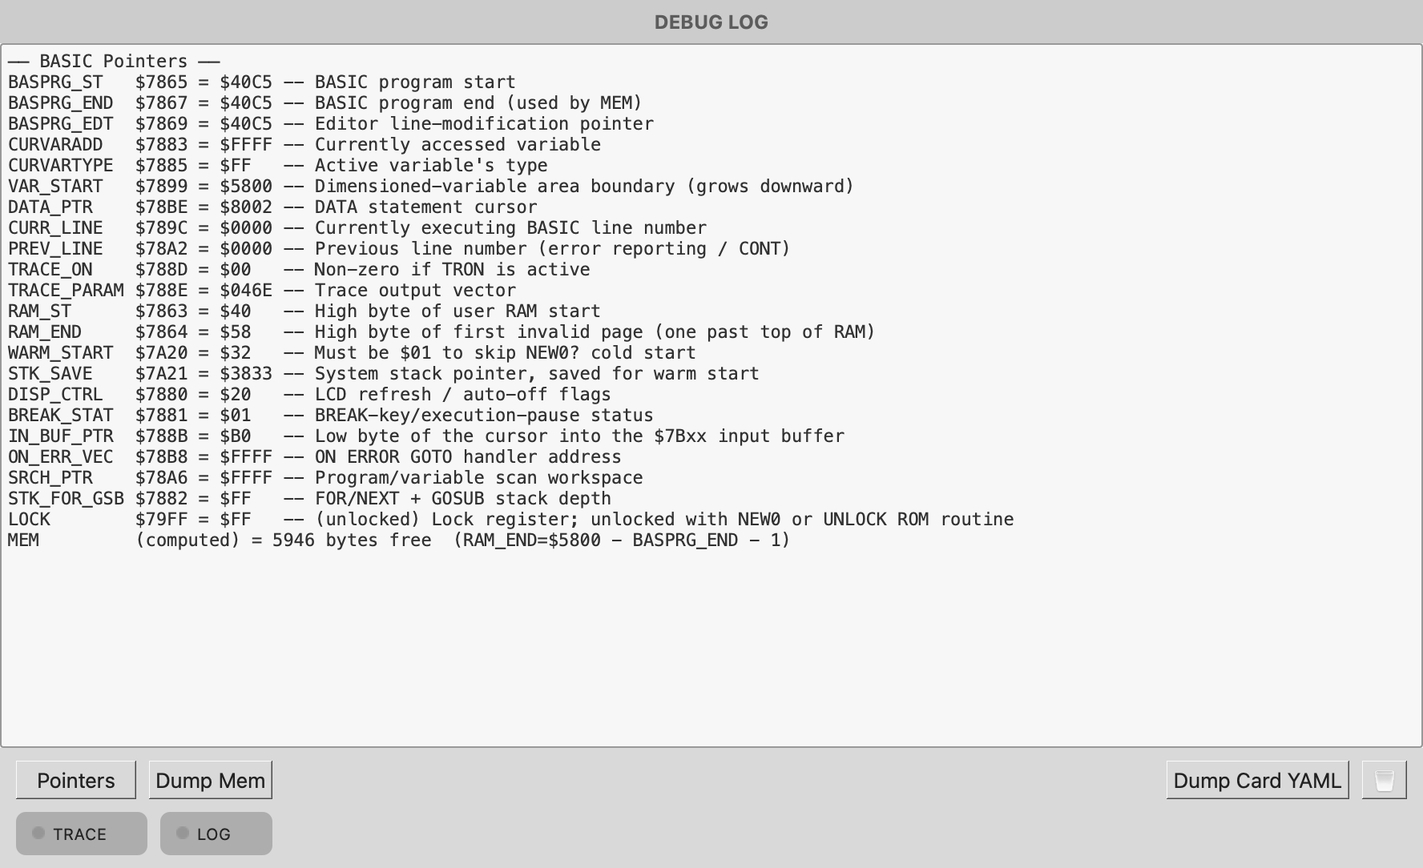
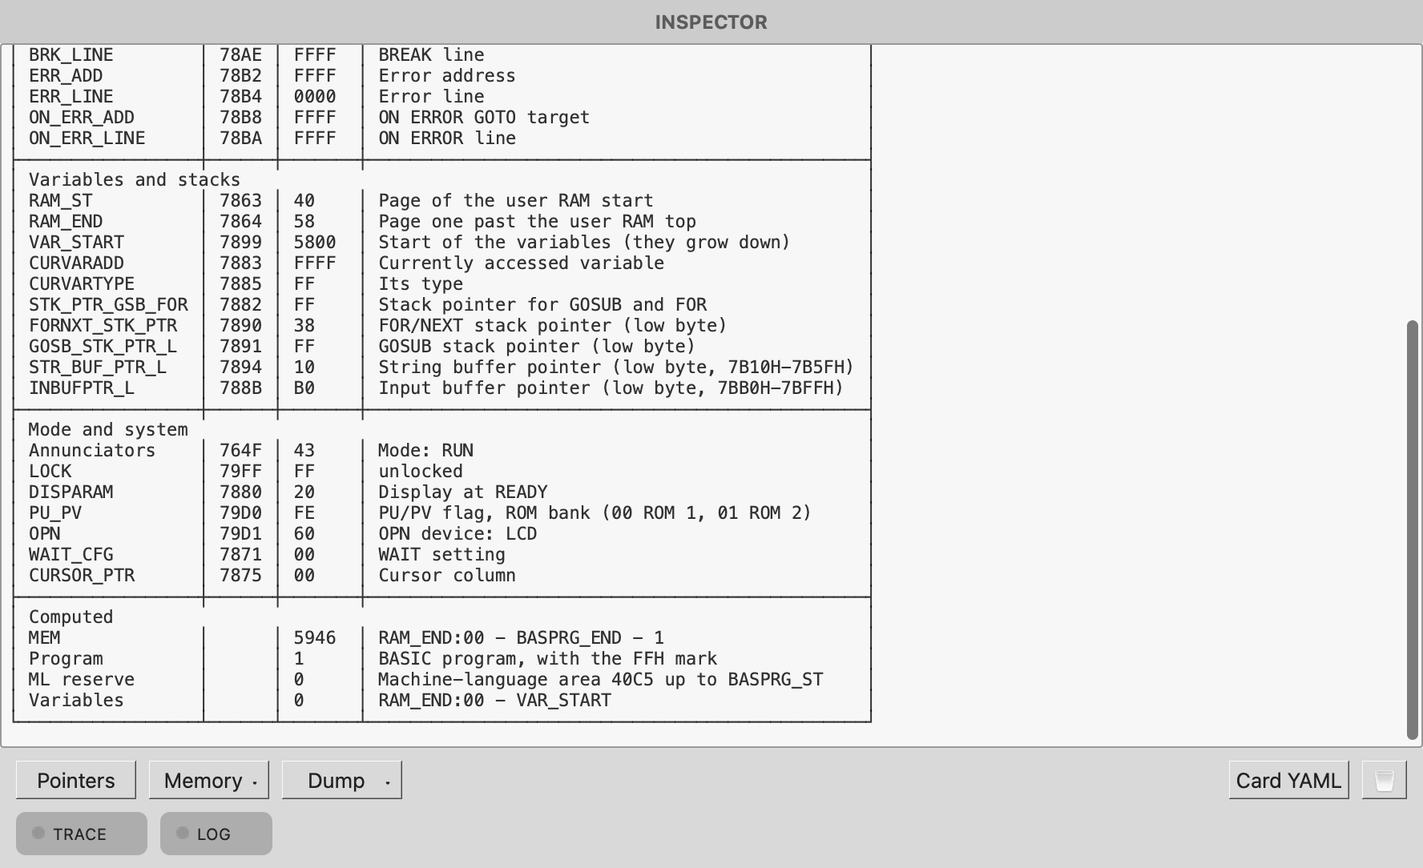
Docs: INSPECTOR in the User Guide, plan, decisions, changelog
User Guide 9.2 rewritten for the INSPECTOR and its menus; the plan as
docs/background/plans/Inspector-Panel-Plan.md; Decisions.md: views in
Core, F055H/F05BH semantics, empty slot = open bus, the F000 block's
current wording; TODO's pointer review done; screenshot refreshed.

diff --git a/docs/background/plans/Inspector-Panel-Plan.md b/docs/background/plans/Inspector-Panel-Plan.md
@@ -1,0 +1,166 @@
+# Debug panel → INSPECTOR: pointers, memory views, dumps
+
+> **Status (2026-10-10): implemented.** Differences from the plan below:
+> - The Core module is `Core/Debug/Inspect/` (`Inspector`, `TextTable`,
+>   `HexDump`, `PC1500Inspector`, `PC1600Inspector`) instead of
+>   `MemoryViews`. The pointer tables moved there; `BasicPointerTable` keeps
+>   only `readPC1600ProgramAreas()`.
+> - No list of ROM images: the inventory names the built-in ROMs itself and
+>   asks the cards (`CardBase::debugMemories()`, `moduleName()`) and the bus
+>   (by offering cycles) for the rest. Bus ROMs are named after their file.
+> - F055H/F05BH turned out to be the module's non-disk RAM, not the disk
+>   size (ROM P1-B3 4B9A–4BBC); a RAM disk is the rest of the module and
+>   counts only with its boot sector (docs/background/Decisions.md, GUI).
+> - The CLIs got `--inspect <view>`, which the plan only had as a
+>   possibility. The screenshot scenarios can open the menus (`open:`), not
+>   pick an entry.
+> - Not done: RDSKS1/RDSKS2 fields (the layout isn't settled), the
+>   RAM-disk directory listing (TODO.md).
+
+## Context
+The "DEBUG LOG" panel (`Qt6/app/DebugPanel.*`) was meant to grow into a debugger. That
+job now belongs to the DAP debug interface, so the panel becomes a read-only
+**machine inspector**. Three things change:
+- **Pointers**: the current lists are short, and the PC-1500 list has errors. The research corpus has many more.
+- **Dump Mem**: today one long PC-1600 printout mixes the bank map, a resource grid and an internal-RAM hex dump. It is replaced by separate table views and dumps that each answer one question.
+- **Naming**: the header and the buttons get new names (decided: INSPECTOR).
+
+Decisions made with the user:
+- Header "INSPECTOR".
+- Button bar: two drop-down buttons, `Memory ▾` and `Dump ▾`.
+- The PC-1500/1500A gets a matching subset of the views.
+- Disk areas: geometry, boot-sector header and raw dump, but no file listing.
+
+## Architecture
+The view logic moves into Core so it is unit-testable (there are no Qt tests) and can
+later be reused by the CLI and DAP.
+- **New `Core/Debug/MemoryViews.{hpp,cpp}`** builds structured models: `InventoryRow`, `CpuViewRow`, `AreaSegment`, …
+- **New `Core/Debug/TextTable.{hpp,cpp}`** is a small box-drawing table renderer (`┌─┬─┐ │ ├─┼─┤ └─┴─┘`, column widths from the content). The views render through it.
+- **`DebugPanel`** keeps only the UI: menus, the ring buffer, and `ringWriteAll(render(...))`. The old `resourceCell`, `targetName`, `debugDumpMemRegion` and `hexRowsFrom` code moves into Core or is removed. One shared hex dumper in Core keeps today's skip-00/FF-run behaviour and takes a base address and a label.
+- **Data access** goes through new locked `PC1600Machine` / `PC1500Machine` debug accessors, passed through `MachineController`, following the existing `debugBankState` / `debugSlotImage` pattern. Every read is side-effect free.
+
+## Phase 1 — Rename + button bar
+- Header `DEBUG LOG` → `INSPECTOR`. Update the class comment and `docs/User-Guide.md` §9.2.
+- Row 1: `Pointers`, `Memory ▾` (QToolButton + QMenu, InstantPopup), `Dump ▾`, stretch, `Card YAML` (renamed from "Dump Card YAML"), Clear.
+- Menu entries are rebuilt on `aboutToShow`, so they depend on the model and on what is attached (PC-1500 entries are hidden; S1/S2 entries are greyed out when the slot is empty).
+- Object names `debugpanel.memory` and `debugpanel.dump`. Update `docs/developer/screenshots/README.md` and the scenarios that click `debugpanel.dumpmem`.
+- LOG pill: leave it as is (out of scope).
+
+## Phase 2 — Pointers (`Core/Debug/BasicPointerTable.cpp`)
+Output is grouped, one heading per group, with decoded flags where it helps.
+
+**PC-1600**, adding to the existing entries (addresses from the research corpus; check
+each one in `pc1600/notes/*-Symbols.md` while implementing):
+- **Program / execution:**
+  - PROCPTR FE00 (LE)
+  - PRGSTA FE3C–FE3E and PRGENDA FE3F–FE41 (3 bytes each, current TITLE area; check the byte order in `PRGADR` 02F4H)
+  - LBCUR F1C1
+  - TRON F88D and TRONMODE F88E
+  - BREAK/ERROR/ON ERROR line+top F8AE/F8B0/F8B4/F8B6/F8BA/F8BC
+  - CONTADR F0B9 (LE)
+- **Stacks / evaluator:**
+  - FORPTR F890, GOSUBPTR F891 (low bytes)
+  - STRBUFP F894
+  - live Z-80 SP against F500–F5FF
+- **Program areas / ML reserve:**
+  - S0DESC F029 and S0MTb F02A
+  - ADTBL F1D6–F1DA, decoded (leading-bank flag / bank / slot)
+  - ML reserve = BASPRG_ST − (F029&7F):C5 (computed)
+- **Files / RAM disk:**
+  - FBNO F02D
+  - PTRTAB F02E–F04F slices, shown only when PTRn ≠ PTRn+1
+  - F055/F05B RAM-disk size (×2 KB)
+  - RDSKS1/2 FC00/FC08 (media ID, open files)
+  - DEVNAME FC16
+- **Mode / system:**
+  - BMODE F1BC (MODE 0/1, BREAK OFF)
+  - SYMB1 F64F (RUN/PRO/RESERVE)
+  - F07D b2 (BASIC ROM 3 / 3b)
+  - SLOTMAPM F08D
+  - RSTCAUSE FA1B
+  - BINTREQ F127 and BINTEN F12A
+  - OPNDV F9D1
+- **Derived values:**
+  - S0 program size
+  - variable area used = RAM_END:00 − VARPTR
+  - free gap
+  - MEM / STATUS 259/260, as today
+- **Fix:** the description of ON_ERR_ADDR ("bit 15 set: off") has no source. Check it in the ROM; if it can't be confirmed, drop the note.
+- **Keep:** CRSRX/CRSRY stay as in the EQU labels; the TRM swaps them, so note the disagreement in a comment.
+
+**PC-1500**:
+- **Fixes:**
+  - BREAK_STAT 7881 is wrong (it is the evaluator element type). Replace it with BREAKPARAM 788A.
+  - WARM_START 7A20 and STK_SAVE 7A21 lie inside FP register ARV, so drop them.
+  - DISP_CTRL 7880 becomes "DISPARAM: display at READY".
+- **Add:**
+  - CURR_TOP 789E
+  - ERL 789B
+  - BRK_*, ERR_*, ON_ERR_* line/top (78AC–78BC)
+  - FOR/GOSUB stack pointers 7890/7891
+  - STR_BUF_PTR 7894
+  - mode annunciator 764F (RUN/PRO/RESERVE)
+  - PU_PV 79D0
+  - OPN 79D1
+  - ML reserve and variable-area derived values
+- **When attached:**
+  - CE-150 group: 79E0–79F4
+  - CE-158 group: 7850–7858
+
+Tests: extend `test_debug_program_areas_match_rom` (`Core/tests/pc1600_program_placement_tests.cpp`) for the new derived values.
+
+## Phase 3 — Core accessors (prerequisites)
+In `PC1600Machine` (locked) → `MachineController`:
+1. `debugRomImages()`: system ROM lo/hi, bank 3, 3b, 6, LH5803 C000–FFFF, plus CE-1600P (`CE1600PCard::debugRomImage`), host drive bank 7, preset bus ROMs. Name and size for the inventory; the bytes are only needed when a dump asks for them.
+2. `debugBusCards()`: walks `SystemBus::chain()` and returns, per card, the name, kind, window/bank, PV/PU, and ROM/RAM size. Covers CE-150, CE-158, CE-1600P, host drive and bus ROMs, on both models.
+3. `debugSlotRegions(slot)`: from `SoftwareDefinedCard::definition().regions[]`, gives kind (RAM/ROM/flash), size, bank count/size and the trigger (Pin vs port 28H = vertical).
+4. `debugReadSlotBus(slot, bank, addr)`: built on `MemorySlotConnector::readInBank`. A pure read; `slotBusWritable` does a probe write, so it must not be used here.
+5. Fix `debugBankState()`: page B banks 6/7 are reported as `OpenBus` although `PC1600Memory::read` sends them to the system bus. Add `DebugPageTarget::BusCard`, which reports the host drive or bus ROM. Report empty slots as `OpenBus`. Check CE-1600P presence in Core instead of in the panel.
+6. LH5803: add a locked `debugLh5803Map()` with PU, PV, and per 4K/8K window which card answers in ME0/ME1. Also a locked `debugLh5803Peek`. Fix `LH5803SharedMemory::debugPeek` so ME0 applies `lha90()` the way `readME0` does. Read `docs/background/Decisions.md` first, including the F000 latch entry at :37, whose "plain latch" text is also out of date compared with the code.
+7. `debugS0Segments()`: `planS0Placement(in, {})` returns the segment list (kind, slot, ADTBL index/bank, window base, top). Reuse `pc1600SlotGeometry` from `PC1600MachineCodeLoader.hpp`.
+
+PC-1500 (`PC1500Machine`): existing `debugSlotCard*` and `debugSlotResponds`, plus `debugBusCards()` and a PU/PV snapshot.
+
+Tests go in `Core/tests/pc1600_machine_tests.cpp` next to the existing "GUI debug panel" tests:
+- bus card in page B bank 7 (host drive)
+- pure slot read doesn't bump `contentRevision`
+- `lha90` peek matches the CPU read
+
+## Phase 4 — Memory ▾ views (`MemoryViews`)
+1. **Inventory**: every physical memory present, one table:
+   ```
+   ┌──────────────┬──────────┬───────┬──────┬─────────────────────────────┐
+   │ Resource     │ Kind     │ Size  │ Banks│ Seen at                     │
+   ├──────────────┼──────────┼───────┼──────┼─────────────────────────────┤
+   │ System ROM   │ ROM      │ 32K   │ 1    │ Z80 A b0/1, B b0            │
+   │ BASIC ROM 3  │ ROM      │ 16K   │ 1    │ Z80 B b3 (3DH b2=1)         │
+   │ Internal RAM │ RAM      │ 16K   │ 1    │ Z80 D · LH5803 ME0 4000-7FFF│
+   │ Slot 2 CE-1601M│ RAM    │ 64K   │ 4 vert│ Z80 C b2/3 (28H)           │
+   │ CE-1600P     │ ROM      │ 32K   │ 2    │ Z80 B b4/b5                 │
+   └──────────────┴──────────┴───────┴──────┴─────────────────────────────┘
+   ```
+   Sections: built-in / memory slots / 60-pin bus.
+2. **Z80 View**: replaces "address map (live)". Rows for pages A–D: range, bank, source, offset into the source, RAM/ROM. A footer shows ports 31H/28H/3CH/3DH plus SLOT1MAP/SLOT2MAP redirects; this replaces the old text and the "armed" grid.
+3. **LH5803 View**: ME0 and ME1 windows (0000–7FFF → Z80 +8000, i.e. which physical RAM; 7400/7500 LHA90 alias; 7600–764F LCD mirror; 8000–BFFF bus card per current PU/PV; C000–FFFF private ROM; ME1 I/O holes). PC-1500: **LH5801 View**, same layout.
+4. **BASIC Area**: the S0 segments from bottom to top, as in the ROM's ADTBL order. Columns: segment, physical source (slot/bank/offset or internal RAM), Z80 and LH5803 address, size. Markers for ML reserve, BASPRG_ST, BASPRG_END, the free gap, VARPTR and RAM_END. Total ≈ MEM. PC-1500: RAM_ST…RAM_END with the same markers.
+5. **Program Areas**: S0/S1/S2 (only those that exist; SxMTb FE = folded into S0). Columns: source, start/end/limit, size, free, and which one TITLE has selected.
+6. **Disk Areas**: S1:/S2:. Size from F055/F05B; the slot/card regions it occupies; for S2: the vertical banks (port 28H) and which bank is latched now; the boot-sector header (media ID, MAXCLS, MAXDIR, FAT location). The offsets follow `superram.card.yaml:95–125` and `PC-1600-Filesystem.md`; check them against the romIII-3 geometry table. Read through `debugReadSlotBus`.
+7. **Physical RAM** (the extra view): reverse map per physical RAM (internal 16K, each slot bank and vertical bank), listing which role holds which byte range: work area F000–FFFF, S0 BASIC, ML reserve, variables, S1 program area, RAM disk, unused. This answers "who owns this chip?", which none of the other views do.
+
+## Phase 5 — Dump ▾
+Hex dumps through the shared Core dumper. Addresses are shown in the CPU view, with the physical source in each section header.
+- BASIC Area (S0, segment by segment)
+- Program Area S0/S1/S2: only the existing ones, BASPRG_ST..END plus the FF mark
+- Disk S1: / Disk S2: (all vertical banks of S2:, with a bank heading for each)
+- PC-1500: BASIC area plus the ML area 7C00–7FFF
+
+## Phase 6 — Docs + commit
+- `docs/User-Guide.md` §9.2 rewritten (INSPECTOR, menus, one sentence per view); CHANGELOG.
+- `TODO.md:279–285` (the pointer review) marked done. `TODO.md:286` (RAM-disk contents) stays open for the file listing.
+- Save this plan as `docs/background/plans/Inspector-Panel-Plan.md` and add a row to `docs/background/README.md`.
+- Commit each phase to `dev-0.8.0`.
+
+## Verification
+- `tools/run_tests.sh`: new Core tests for the accessors, the views (rendered text against fixed machine states: default PC-1600, CE-1601M in S2 plus `INIT"S2:"`, a program module in S1, a TITLE switch) and the table renderer.
+- Headless: a small probe in `headless/` that prints each view for a few `.pc1600` presets (program-area-tests from the research corpus). Check the numbers against `MEM` / `STATUS 259/260` read from the LCD (`--lcd-text -`).
+- GUI: build the app (`tools/build_app.sh`), run each menu entry on PC-1600 and PC-1500 (with CE-150, CE-158, CE-1600P, mounted directory), and check light/dark themes and the narrow-bar layout. Launch with `-ApplePersistenceIgnoreState YES` and quit via `calcu1600/quit`.

diff --git a/docs/User-Guide.md b/docs/User-Guide.md
@@ -17,7 +17,7 @@ This guide starts with the basics and gets more technical as it goes:
 6. [Machine-code programs](#6-machine-code-programs)
 7. [COM ports](#7-com-ports)
 8. [Presets](#8-presets)
-9. [Appendix](#9-appendix): Settings, Debug panel, custom memory cards
+9. [Appendix](#9-appendix): Settings, Inspector, custom memory cards
 
 The screenshots are taken from macOS. They are generated by scripts, so they
 stay up to date with the app.
@@ -31,7 +31,7 @@ stay up to date with the app.
 The window has three parts:
 - **The calculator** (faceplate and LCD) at the top.
 - **The control bar** below it: model, memory slots and peripherals.
-- **The panels** at the bottom: the Debug panel, plus the plotter paper or
+- **The panels** at the bottom: the Inspector, plus the plotter paper or
   the CE-158 printer output when one is attached.
 
 Everything you can plug into a real machine, the emulator can plug in too:
@@ -214,7 +214,7 @@ sequenceDiagram
     Note over You,M: ready at the prompt, plotter live
 ```
 
-While a plotter is attached, its paper appears next to the Debug panel. The
+While a plotter is attached, its paper appears next to the Inspector. The
 paper scrolls, and it follows the pen as long as you are at the bottom:
 
 ![The paper panel with its Copy and Cut buttons](images/guide/03-paper-panel.png)
@@ -751,7 +751,7 @@ program:
 | `- expect: 11834` | Stops the preset with an error unless one line of the display contains that text, e.g. to check a result. The rest of the line is the text, `#` included. A backslash is written `\\`, and a character outside ASCII as `\xHH` (its code). |
 | `- screenshot: shot.png` | Saves the LCD image (as Copy Screen does) in the trace directory. |
 | `- syncclock:` | Sets the calculator's clock from your computer. Put it last, because a preset runs at full speed and the clock runs ahead. |
-| `- trace: run.bin` / `- trace: off` | Starts / stops a CPU trace (see the [Debug panel](#92-debug-panel)). |
+| `- trace: run.bin` / `- trace: off` | Starts / stops a CPU trace (see the [Inspector](#92-inspector)). |
 
 `saveas:` needs `live` or `template` first:
 - **`live`** saves an ordinary copy. Later changes are saved into it
@@ -861,19 +861,52 @@ elsewhere. Changes apply immediately; there is only **Close**.
   [Debugger.md](Debugger.md)).
 
 
-### 9.2 Debug panel
+### 9.2 Inspector
 
-![The Debug panel after Pointers](images/guide/09-debug-panel.png)
+The INSPECTOR panel shows what is in the machine right now, as text you can
+select and copy. To step through a program or set breakpoints, use the
+debugger ([Debugger.md](Debugger.md)).
 
-- **Pointers:** BASIC's pointer table (program start and end, RAM limits,
-  free memory …) for the current model. On the PC-1600 it also shows the
-  program area `TITLE` selects, `MEM`, and each slot's program module with
-  its free space, computed the way the ROM computes them.
-- **Dump Mem:** the interesting memory areas, skipping runs of filler bytes.
-- **Dump Card YAML:** the module in each slot, as an `initial-content:`
-  block for a `.card.yaml` (see below).
+![The Inspector after Pointers](images/guide/09-debug-panel.png)
+
+- **Pointers:** the BASIC and system work-area variables, in groups:
+  program, errors and BREAK, variables and stacks, mode and system. Flags
+  are decoded (MODE 0/1, RUN/PRO, TRON …). At the end are the derived
+  figures, worked out the way the ROM works them out: `MEM`, the program
+  size, the machine-language reserve, the variables. On the PC-1600 there
+  are also the program areas (`TITLE`, `ADTBL`, S1/S2 with their free
+  space), the file buffers, and the SC7852's stack pointer. On a PC-1500 a
+  CE-150 or CE-158 adds its own variables.
+- **Memory ▾:** tables of the memory.
+  - **Inventory:** every ROM and RAM in the machine, built in, in the
+    memory slots and on the 60-pin bus, with its size, banks and where the
+    CPUs see it.
+  - **Z80 View** (PC-1600): what pages A–D of the SC7852 show at the moment,
+    with the bank registers and SLOTMAP.
+  - **LH5803 View** / **LH5801 View:** the LH5803's (PC-1600) or LH5801's
+    (PC-1500) address space at the moment: RAM, display RAM, the peripheral
+    ROM window at the current PU/PV, and the I/O in ME1.
+  - **BASIC Area:** the BASIC area from bottom to top: on the PC-1600 the
+    banks it is made of, in `ADTBL` order, with the header, machine-language
+    reserve, program, free space and variables in each bank.
+  - **Program Areas** (PC-1600): S0, S1 and S2 with their start, end, limit
+    and free space, and which one `TITLE` selects.
+  - **Disk Areas** (PC-1600): the RAM disks S1: and S2:, where they sit in
+    the module (on S2: which vertical banks), and what the boot sector says.
+  - **Physical RAM:** each RAM chip and what each part of it holds, for
+    example "S0: program", "RAM disk S2:" or "unused".
+- **Dump ▾:** hex dumps of the BASIC area, a program module's area (S1, S2),
+  a RAM disk (S1:, S2:), and on the PC-1500 the machine-language area
+  7C00–7FFF. An entry that doesn't apply right now is greyed out.
+- **Card YAML:** the module in each slot, as an `initial-content:` block for
+  a `.card.yaml` (see below).
 - **Clear** (bin icon): empties the log.
 - **TRACE:** starts / stops a CPU instruction trace into the trace directory.
+
+The headless CLIs print the same views: `--inspect <view>` (repeatable)
+with `pointers`, `inventory`, `z80`, `lh`, `basic`, `programs`, `disks`,
+`physical`, `dump-basic`, `dump-s1`, `dump-s2`, `dump-disk-s1`,
+`dump-disk-s2` or `dump-ml`.
 
 ### 9.3 Custom memory cards
 
@@ -895,7 +928,7 @@ why) and [Memory-Card-Definition-Format.md](Memory-Card-Definition-Format.md)
   to, and Name & Save makes your own copy.
 - **A card with content already on it:**
   1. Prepare it with a preset (see [examples/setup/](../examples/setup/)).
-  2. Click **Dump Card YAML**.
+  2. Click **Card YAML**.
   3. Paste the printed block into the card definition.
 
   If you only want to reuse one prepared card, Name & Save it instead and

diff --git a/docs/background/Decisions.md b/docs/background/Decisions.md
@@ -38,8 +38,8 @@ decides what reaches the PV pin.
 `LH5803SharedMemory` decodes it with the narrow `(addr & 0xFFF0) == 0xF000`
 mask, before falling through to ME0. Don't use the PC-1500's broad
 `(addr & 0x3000) == 0x3000` chip select: on this bus it would swallow ME1 RAM
-and card accesses. The latch is a plain 16-byte latch and deliberately not the
-full named register block.
+and card accesses. The block is the SC7852's own ports 10H-1FH
+(`PC1600Memory::readIO`/`writeIO`), the same registers the Z-80 reaches.
 
 IF (0xF00B) is software-only. It isn't cleared on read and gets no live
 TP/RTC edge. The firmware clears the bit itself, and a stray edge in the
@@ -555,6 +555,20 @@ authentic speed for the span that matters.
     latch. A self-contained sequence always leaves KBII off.
 
 ### GUI
+- **The INSPECTOR's views are built in Core** (`Core/Debug/Inspect`), from
+  one locked snapshot (`debugInspect()`), not in the panel: they are tested
+  there and the CLIs print them (`--inspect`). Every read in them is free
+  of side effects; a slot read uses `slotBusRead()` (no probe write), and a
+  card register a read would disturb counts as "answers" without being read.
+  A view goes into the log as one entry, so a long dump isn't cut to the
+  last display page.
+- **Inspector: F055H / F05BH are the module's non-disk RAM**, in 2 KB units
+  (P1-B3 4B9A-4BBC: `INIT "F"` leaves 0, "M"/"P" add up to 10H). The
+  RAM disk is the module above that, and the inspector counts it only with
+  its 55H 80H boot sector. The research's "RAM-disk size" reading of these
+  bytes doesn't match the ROM; don't switch to it.
+- **An empty slot reads as open bus in the Z80 View** (`DebugBankState`),
+  as `PC1600Memory::read()` serves it, not as "Slot 1".
 - **Hardware pickers (model, memory modules) live on the control bar**, not
   in Settings. The picks reset on a model switch and aren't saved. Settings
   holds app-level preferences only.

diff --git a/TODO.md b/TODO.md
@@ -276,16 +276,11 @@ CE-1600P (docs/background/plans/Cassette-Tape-Plan.md, dev/tape-matrix/).
   other and the preset parser rejects the pair. Both now sit on the one
   60-pin `SystemBus`. Blocked on the IO7N question in "Expansion connectors"
   (User Guide says "not yet supported").
-- **Review the Debug panel's content against the full ROM disassembly.** The
-  pointer dump and the other views were built before the ROM was fully
-  commented. Go through the disassembly's work-area symbols and pick what
-  helps when debugging. `TITLE`, `PRG_BANKS` (ADTBL index) and the S1/S2
-  slot areas are already shown; candidates: `BMODE`,
-  `BINTREQ`/`F1CF`–`F1D4`, TRON state, `OPNDV`, the logical banks
-  F1C1–F1CE, PRGADR FE3C–FE41. Also check every existing label and note for
-  accuracy (address space, byte order, meaning).
 - Allow viewing a memory module's or diskette's binary file contents in the
-  debug area, without having to save them out first. For memory modules
+  INSPECTOR, without having to save them out first. Disk Areas / Dump ▾
+  already show where a RAM disk sits, its boot sector and its raw bytes
+  (docs/background/plans/Inspector-Panel-Plan.md); what is missing is the
+  directory and the files. For memory modules
   this means the disk part (the RAM-disk filesystem), not the RAM-extension
   part. For a floppy side, the vendored libsharpdx (0.3.5) already has
   `sde_disk_list` / `sde_disk_get`, which decode the directory and files

diff --git a/docs/developer/screenshots/README.md b/docs/developer/screenshots/README.md
@@ -167,7 +167,7 @@ Two macOS details:
 | `controlbar.ce150`, `controlbar.ce158`, `controlbar.ce1600p` | peripheral toggles (CE-150/CE-158 on PC-1500/1500A, CE-1600P on PC-1600) |
 | `controlbar.floppy`, `controlbar.floppy.side`, `controlbar.floppy.save`, `controlbar.floppy.lamp` | CE-1600F disk row |
 | `controlbar.tape`, `controlbar.tape.save`, `controlbar.tape.counter` | cassette bay: tape picker, Save, counter (green while the motor runs; with a CE-150 or CE-1600P) |
-| `debugpanel`, `debugpanel.pointers`, `debugpanel.dumpmem`, `debugpanel.dumpcard`, `debugpanel.clear`, `debugpanel.trace` | Debug panel and its buttons |
+| `debugpanel`, `debugpanel.pointers`, `debugpanel.memory`, `debugpanel.dump`, `debugpanel.card`, `debugpanel.clear`, `debugpanel.trace` | Inspector panel and its buttons (`open:` on `debugpanel.memory` / `debugpanel.dump` shows the menu) |
 | `paper`, `paper.copy`, `paper.cut` | plotter paper panel |
 | `ce158printer`, `ce158printer.save`, `ce158printer.clear` | CE-158 printer panel |
 | `dialog.settings`, `dialog.about`, `dialog.machinecode` | dialogs |

diff --git a/CHANGELOG.md b/CHANGELOG.md
@@ -28,6 +28,17 @@
 
 ### Changed
 
+- **The Debug panel is now the INSPECTOR.** Pointers lists many more of
+  the work-area variables, in groups and with flags decoded, checked
+  against the ROM disassembly; three wrong PC-1500 entries are gone
+  (`BREAK_STAT` was the evaluator's type byte, the real BREAK flag is
+  `BREAKPARAM` at 788AH; `WARM_START`/`STK_SAVE` lie in an arithmetic
+  register). Dump Mem is replaced by two menus. **Memory ▾** has tables:
+  Inventory, Z80 View, LH5803/LH5801 View, BASIC Area, Program Areas, Disk
+  Areas and Physical RAM. **Dump ▾** has hex dumps of the BASIC area, the
+  S1/S2 program areas and the S1:/S2: RAM disks. The views are built in Core
+  and the headless CLIs print them with `--inspect <view>`. Dump Card YAML
+  is now Card YAML.
 - **Presets and memory-card files carry `format-version: 1`**, and it is
   required: add the line to your own presets and to saved cards
   (`.card.yaml` in the Battery-card saves folder). A card without it no

diff --git a/docs/background/README.md b/docs/background/README.md
@@ -40,6 +40,7 @@ with a status note on how the implementation differed. New plans go into
 | [Pre-execution snapshots: history and trace](plans/Pre-Execution-Snapshots-Plan.md) | 2026-10-04 | Implemented |
 | [Cassette CLOAD / CSAVE via WAV files](plans/Cassette-Tape-Plan.md) | 2026-10-04 | Implemented for PC-1500 + CE-150 and PC-1600 MODE 0; MODE 1 `CLOAD`, CE-150 on PC-1600 and the real-unit cross-check open in TODO.md |
 | [Pre-1.0 format freeze: versions, `slot-N-rom:`, one `saveas:`](plans/Format-Freeze-Plan.md) | 2026-10-10 | Implemented |
+| [Debug panel → INSPECTOR: pointers, memory views, dumps](plans/Inspector-Panel-Plan.md) | 2026-10-10 | Implemented; RAM-disk directory listing open in TODO.md |
 
 ## Handoffs
 

diff --git a/examples/setup/README.md b/examples/setup/README.md
@@ -20,7 +20,7 @@ of BASIC programs, write a config file, and so on.
      `floppy-file:`. `examples/dwx/make_diskworks_media.pc1600` does this for
      `examples/dwx/DiskWorks.pc1600`.
 
-   - **Dump the card.** Use the debug **"Dump Card YAML"** action to emit a card
+   - **Dump the card.** Use the debug **"Card YAML"** action to emit a card
      definition, and paste the data it captures into a card definition's
      `initial-content:` (your own copy of a bundled one from
      `Qt6/resources/cards/`, e.g. `ce1601m.card.yaml`). A fresh card from
